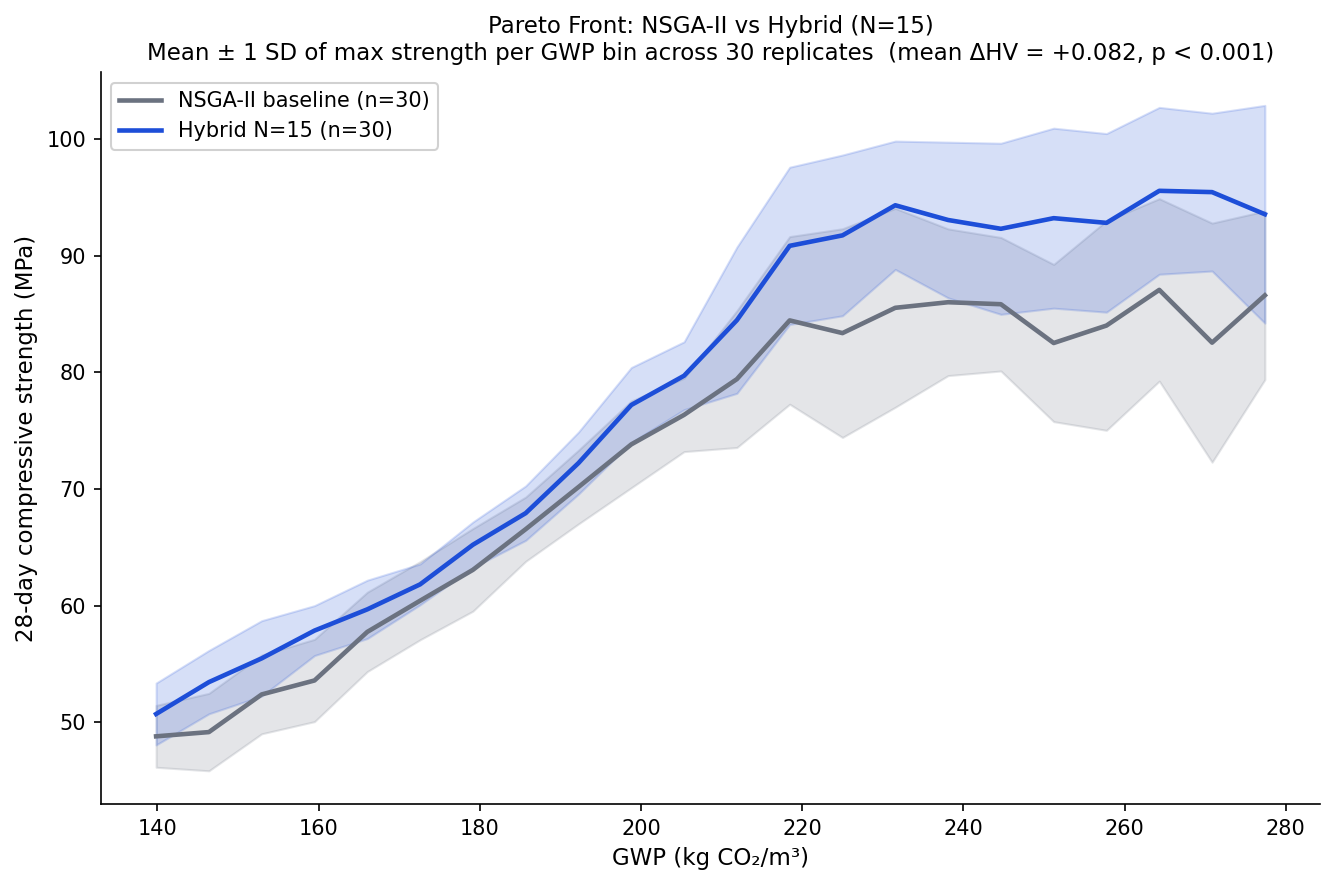
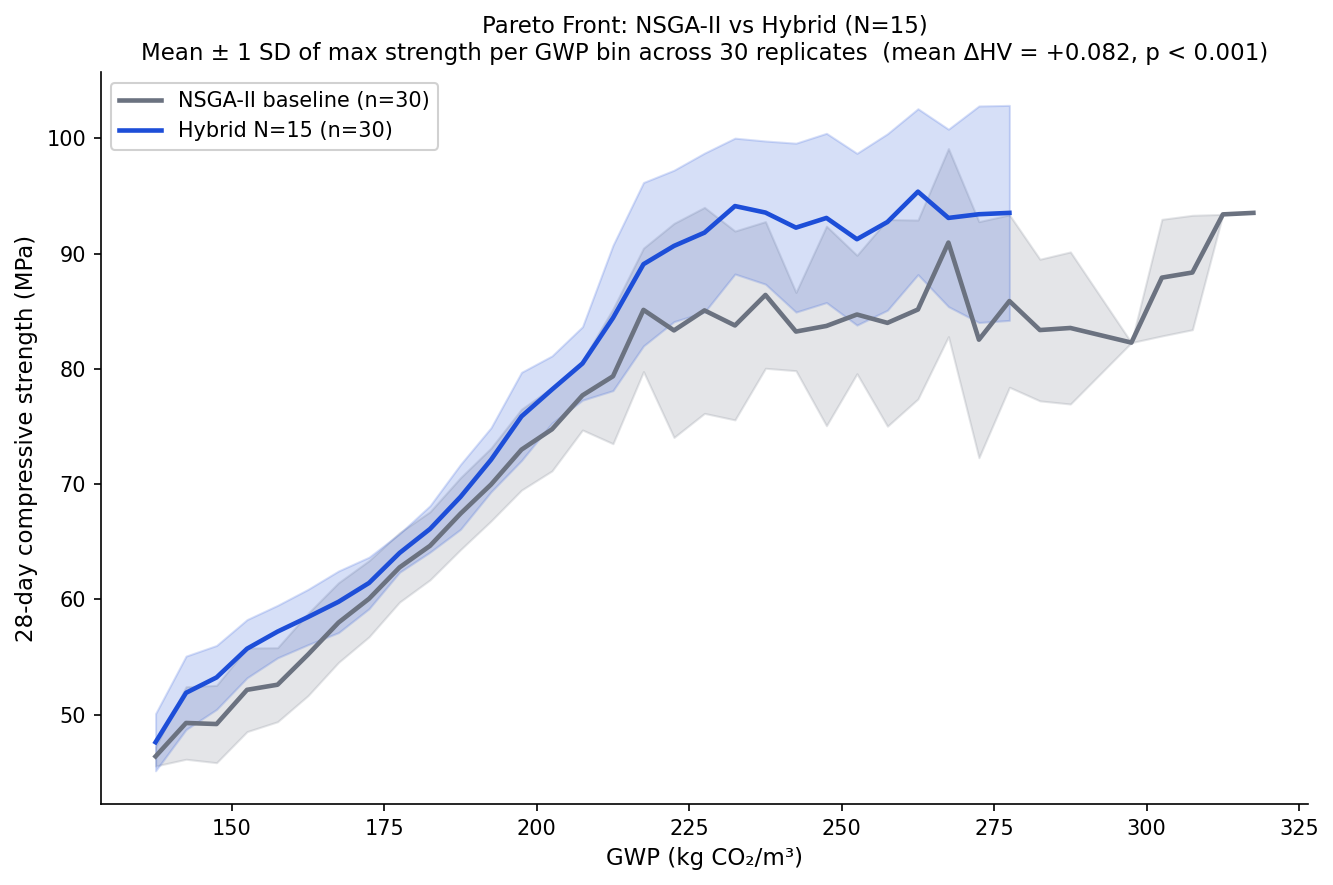
Clip pareto front figure to shared x-range for both methods
Remove shared_mask truncation: each method now plotted over its own
full GWP range (NSGA-II extends to ~316, Hybrid to ~279).
GWP_BINS extended to 130-325 to cover the full data extent.

diff --git a/analyze_step41.py b/analyze_step41.py
@@ -24,7 +24,7 @@ OUTDIR.mkdir(exist_ok=True)
 
 GWP_MIN, GWP_MAX = 169.0, 534.5
 STR_MIN, STR_MAX = 17.4, 106.1
-GWP_BINS = np.linspace(130, 320, 30)
+GWP_BINS = np.linspace(130, 325, 40)
 
 METHODS = {
     "nsga2":   ("NSGA-II baseline",    "grid_everyg_base_rep{:02d}",      "#9CA3AF", "--"),
@@ -90,23 +90,20 @@ for key, (label, tpl, color, ls) in METHODS.items():
     if pfs:
         mats[key] = rep_binned(pfs, GWP_BINS)
 
-# shared x-range: bins where ALL methods have data
+# each method plotted over its own full range — no clipping
 if mats:
-    shared_mask = np.ones(len(GWP_BINS)-1, dtype=bool)
-    for m in mats.values():
-        shared_mask &= ~np.isnan(np.nanmean(m, axis=0))
-
     for key, (label, tpl, color, ls) in METHODS.items():
         if key not in mats:
             continue
         mat  = mats[key]
         mean = np.nanmean(mat, axis=0)
         sd   = np.nanstd(mat,  axis=0)
-        ax.plot(bin_centers[shared_mask], mean[shared_mask],
+        mask = ~np.isnan(mean)
+        ax.plot(bin_centers[mask], mean[mask],
                 color=color, ls=ls, lw=2.2, label=label, zorder=3)
-        ax.fill_between(bin_centers[shared_mask],
-                        mean[shared_mask] - sd[shared_mask],
-                        mean[shared_mask] + sd[shared_mask],
+        ax.fill_between(bin_centers[mask],
+                        mean[mask] - sd[mask],
+                        mean[mask] + sd[mask],
                         color=color, alpha=0.14, zorder=2)
 
 ax.set_xlabel("GWP (kg CO2/m3)", fontsize=11)

diff --git a/regen_figures_n15.py b/regen_figures_n15.py
@@ -67,7 +67,7 @@ div_base_arr= np.array([r["div_base"] for r in reps_data])
 fig, ax = plt.subplots(figsize=(9, 6))
 
 # Bin GWP axis; for each bin take per-rep max strength, then average across reps
-GWP_BINS = np.linspace(130, 320, 30)
+GWP_BINS = np.linspace(130, 325, 40)
 
 def rep_binned(pf_list, bins):
     """For each rep's Pareto front, compute max strength per GWP bin."""
@@ -89,10 +89,7 @@ mats = {}
 for key, pf_list in [("base", base_pfs), ("hyb", hyb_pfs)]:
     mats[key] = rep_binned(pf_list, GWP_BINS)
 
-# shared x-range: bins where BOTH have data
-shared_mask = (~np.isnan(np.nanmean(mats["base"], axis=0))) & \
-              (~np.isnan(np.nanmean(mats["hyb"],  axis=0)))
-
+# each method uses its own mask — full range, no clipping
 for key, color, label in [
     ("base", "#6B7280", f"NSGA-II baseline (n={REPS})"),
     ("hyb",  "#1D4ED8", f"Hybrid N=15 (n={REPS})"),
@@ -100,7 +97,7 @@ for key, color, label in [
     mat  = mats[key]
     mean = np.nanmean(mat, axis=0)
     sd   = np.nanstd(mat,  axis=0)
-    mask = shared_mask
+    mask = ~np.isnan(mean)
     ax.plot(bin_centers[mask], mean[mask], color=color, lw=2.2, label=label, zorder=3)
     ax.fill_between(bin_centers[mask],
                     mean[mask] - sd[mask],
